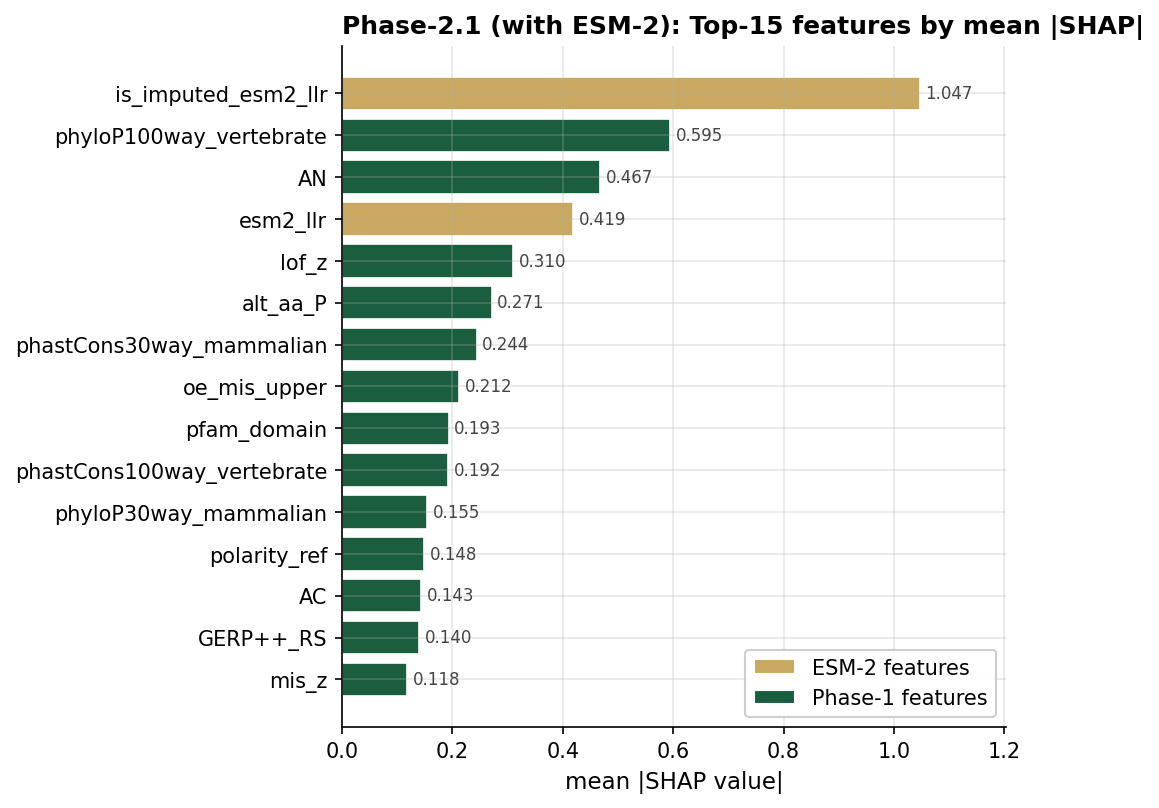
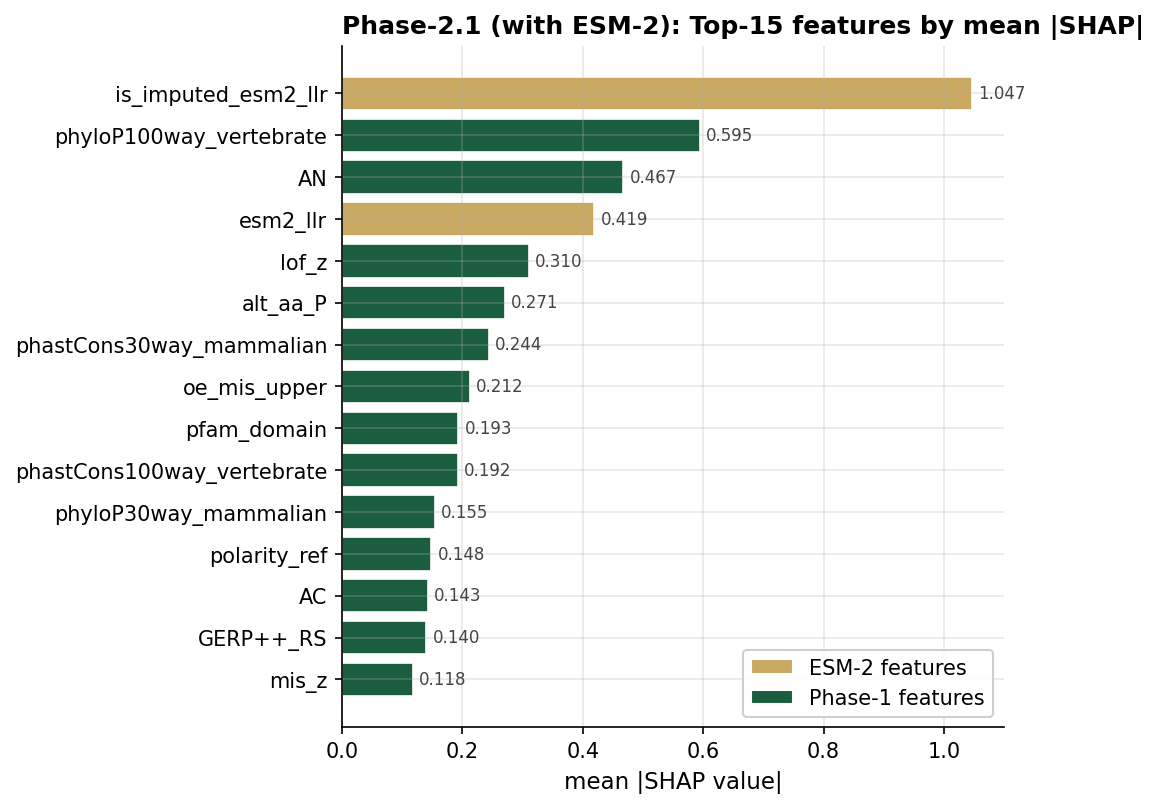
Defense: archive prep package + reusable SHAP regen script
Saves the seven-file defense improvement package as repository-internal
reference material:

- docs/defense_prep/{00..06}_*.md: original briefs covering README, fix
  list, slide LaTeX, Q&A bank, speaker notes, polish guide.
- docs/defense_prep/03_regenerate_shap_figure.py: untouched original.
- scripts/regenerate_shap_figure.py: adapted version that points at this
  repo's actual paths (results/metrics/shap_ranking_phase21.csv) and
  also accepts CSV input (load_shap_summary tolerates .csv suffix and
  strips num__ / cat__ prefixes for cleaner labels).

Re-running the adapted script reproduces shap_phase2_only.png from
committed inputs, so the figure is no longer one-shot manual work.

diff --git a/scripts/regenerate_shap_figure.py b/scripts/regenerate_shap_figure.py
@@ -1,0 +1,301 @@
+#!/usr/bin/env python3
+"""
+Regenerate the SHAP comparison figure for slide 45.
+
+Handles two cases:
+  --mode=full    : Phase-1 SHAP parquet exists, produces side-by-side comparison
+  --mode=single  : Phase-1 missing, produces clean single-panel Phase-2.1 figure
+
+Usage:
+    python 03_regenerate_shap_figure.py --mode=full
+    python 03_regenerate_shap_figure.py --mode=single
+
+Outputs to:
+    figures/shap_phase1_vs_phase2.png   (full mode)
+    figures/shap_phase2_only.png        (single mode)
+
+Author: prepared for Rayan AlShahrani's defense, Apr 2026
+"""
+
+import argparse
+import sys
+from pathlib import Path
+
+import matplotlib.pyplot as plt
+import numpy as np
+import pandas as pd
+
+# -----------------------------------------------------------------------------
+# Configuration
+# -----------------------------------------------------------------------------
+
+REPO_ROOT = Path(__file__).resolve().parent.parent
+# Phase-1 SHAP data is not preserved in this repo — only Phase-2.1 ranking CSV is
+SHAP_DIR = REPO_ROOT / "results" / "metrics"
+FIGURES_DIR = REPO_ROOT / "report" / "academic" / "figures"
+FIGURES_DIR.mkdir(parents=True, exist_ok=True)
+
+# Default file paths — point to actual data shipped in this repo
+PHASE1_PARQUET = SHAP_DIR / "shap_ranking_phase1.csv"  # not present; --mode=full will fail
+PHASE2_PARQUET = SHAP_DIR / "shap_ranking_phase21.csv"
+
+# KKU palette — match your slide theme
+KKU_GREEN = "#1B5E3F"
+KKU_GOLD = "#C9A961"
+NEUTRAL = "#444444"
+
+# Figure aesthetics
+plt.rcParams.update({
+    "font.family": "DejaVu Sans",
+    "font.size": 10,
+    "axes.spines.top": False,
+    "axes.spines.right": False,
+    "axes.grid": True,
+    "grid.alpha": 0.3,
+})
+
+
+# -----------------------------------------------------------------------------
+# Data loading
+# -----------------------------------------------------------------------------
+
+def load_shap_summary(data_path: Path, top_n: int = 15) -> pd.DataFrame:
+    """
+    Load a SHAP summary parquet or CSV and return the top-N features by mean |SHAP|.
+
+    Expected columns:
+        - 'feature': feature name
+        - 'mean_abs_shap': mean absolute SHAP value
+    """
+    if not data_path.exists():
+        raise FileNotFoundError(f"SHAP file not found: {data_path}")
+
+    if data_path.suffix == ".csv":
+        df = pd.read_csv(data_path)
+    else:
+        df = pd.read_parquet(data_path)
+
+    # Tolerate alternate column names
+    if "mean_abs_shap" not in df.columns:
+        for alt in ("mean_abs_shap_value", "abs_shap", "shap_mean_abs"):
+            if alt in df.columns:
+                df = df.rename(columns={alt: "mean_abs_shap"})
+                break
+
+    if "feature" not in df.columns:
+        for alt in ("feature_name", "name"):
+            if alt in df.columns:
+                df = df.rename(columns={alt: "feature"})
+                break
+
+    # Strip the num__ / cat__ prefixes for cleaner labels (Phase-2.1 has them)
+    df["feature"] = df["feature"].str.replace(r"^(num__|cat__)", "", regex=True)
+
+    # Sort and take top N
+    df = df.sort_values("mean_abs_shap", ascending=False).head(top_n)
+    return df.reset_index(drop=True)
+
+
+# -----------------------------------------------------------------------------
+# Plotting — single panel
+# -----------------------------------------------------------------------------
+
+def plot_single_panel(phase2_df: pd.DataFrame, output_path: Path) -> None:
+    """Single-panel horizontal bar chart of Phase-2.1 SHAP values."""
+
+    fig, ax = plt.subplots(figsize=(7, 5.5), dpi=150)
+
+    # Reverse order so highest-impact feature is at top
+    df = phase2_df.iloc[::-1].reset_index(drop=True)
+
+    # Highlight ESM-2 features in gold, others in green
+    colors = [
+        KKU_GOLD if "esm2" in feat.lower() else KKU_GREEN
+        for feat in df["feature"]
+    ]
+
+    bars = ax.barh(
+        df["feature"],
+        df["mean_abs_shap"],
+        color=colors,
+        edgecolor="white",
+        linewidth=0.8,
+    )
+
+    # Add value labels at end of each bar
+    for bar, val in zip(bars, df["mean_abs_shap"]):
+        ax.text(
+            bar.get_width() + 0.01,
+            bar.get_y() + bar.get_height() / 2,
+            f"{val:.3f}",
+            va="center",
+            fontsize=8,
+            color=NEUTRAL,
+        )
+
+    ax.set_xlabel("mean |SHAP value|", fontsize=11)
+    ax.set_title(
+        "Phase-2.1 (with ESM-2): Top-15 features by mean |SHAP|",
+        fontsize=12,
+        fontweight="bold",
+        loc="left",
+    )
+
+    # Legend explaining the color coding
+    from matplotlib.patches import Patch
+    legend_elements = [
+        Patch(facecolor=KKU_GOLD, edgecolor="white", label="ESM-2 features"),
+        Patch(facecolor=KKU_GREEN, edgecolor="white", label="Phase-1 features"),
+    ]
+    ax.legend(
+        handles=legend_elements,
+        loc="lower right",
+        frameon=True,
+        framealpha=0.95,
+    )
+
+    plt.tight_layout()
+    plt.savefig(output_path, bbox_inches="tight", dpi=150)
+    plt.close()
+    print(f"[OK] Wrote {output_path}")
+
+
+# -----------------------------------------------------------------------------
+# Plotting — two panel
+# -----------------------------------------------------------------------------
+
+def plot_two_panel(
+    phase1_df: pd.DataFrame,
+    phase2_df: pd.DataFrame,
+    output_path: Path,
+) -> None:
+    """Side-by-side comparison of Phase-1 vs Phase-2.1 SHAP."""
+
+    fig, axes = plt.subplots(1, 2, figsize=(13, 6), dpi=150, sharex=False)
+
+    # Determine a shared x-axis upper bound for visual comparability
+    xmax = max(
+        phase1_df["mean_abs_shap"].max(),
+        phase2_df["mean_abs_shap"].max(),
+    ) * 1.15
+
+    for ax, df, title, has_esm2 in [
+        (axes[0], phase1_df, "Phase-1 (no ESM-2)", False),
+        (axes[1], phase2_df, "Phase-2.1 (with ESM-2)", True),
+    ]:
+        df_plot = df.iloc[::-1].reset_index(drop=True)
+
+        if has_esm2:
+            colors = [
+                KKU_GOLD if "esm2" in feat.lower() else KKU_GREEN
+                for feat in df_plot["feature"]
+            ]
+        else:
+            colors = [KKU_GREEN] * len(df_plot)
+
+        ax.barh(
+            df_plot["feature"],
+            df_plot["mean_abs_shap"],
+            color=colors,
+            edgecolor="white",
+            linewidth=0.8,
+        )
+
+        ax.set_xlim(0, xmax)
+        ax.set_xlabel("mean |SHAP value|", fontsize=11)
+        ax.set_title(title, fontsize=12, fontweight="bold", loc="left")
+        ax.tick_params(axis="y", labelsize=9)
+
+    fig.suptitle(
+        "Top-15 features by mean |SHAP| — Phase-1 vs Phase-2.1",
+        fontsize=13,
+        fontweight="bold",
+        y=1.02,
+    )
+
+    # Legend on the right panel only
+    from matplotlib.patches import Patch
+    legend_elements = [
+        Patch(facecolor=KKU_GOLD, edgecolor="white", label="ESM-2 features"),
+        Patch(facecolor=KKU_GREEN, edgecolor="white", label="Phase-1 features"),
+    ]
+    axes[1].legend(handles=legend_elements, loc="lower right", frameon=True)
+
+    plt.tight_layout()
+    plt.savefig(output_path, bbox_inches="tight", dpi=150)
+    plt.close()
+    print(f"[OK] Wrote {output_path}")
+
+
+# -----------------------------------------------------------------------------
+# Main
+# -----------------------------------------------------------------------------
+
+def main() -> int:
+    parser = argparse.ArgumentParser(description=__doc__)
+    parser.add_argument(
+        "--mode",
+        choices=["full", "single"],
+        required=True,
+        help="full = side-by-side (requires Phase-1 parquet); single = Phase-2.1 only",
+    )
+    parser.add_argument(
+        "--phase1-path",
+        type=Path,
+        default=PHASE1_PARQUET,
+        help=f"Phase-1 SHAP file, csv or parquet (default: {PHASE1_PARQUET})",
+    )
+    parser.add_argument(
+        "--phase2-path",
+        type=Path,
+        default=PHASE2_PARQUET,
+        help=f"Phase-2.1 SHAP file, csv or parquet (default: {PHASE2_PARQUET})",
+    )
+    parser.add_argument(
+        "--top-n",
+        type=int,
+        default=15,
+        help="Number of top features to plot (default: 15)",
+    )
+    args = parser.parse_args()
+
+    # Always need Phase-2 data
+    try:
+        phase2_df = load_shap_summary(args.phase2_path, top_n=args.top_n)
+    except FileNotFoundError as e:
+        print(f"[ERROR] {e}", file=sys.stderr)
+        print(
+            "[HINT] Make sure your Phase-2.1 SHAP computation has been run.\n"
+            "       Expected file at: " + str(args.phase2_path),
+            file=sys.stderr,
+        )
+        return 1
+
+    if args.mode == "full":
+        try:
+            phase1_df = load_shap_summary(args.phase1_path, top_n=args.top_n)
+        except FileNotFoundError as e:
+            print(f"[ERROR] {e}", file=sys.stderr)
+            print(
+                "[HINT] Phase-1 SHAP parquet missing. Either:\n"
+                "  (a) Run: python -m src.eval.shap_phase1\n"
+                "      to regenerate Phase-1 SHAP, then re-run this script.\n"
+                "  (b) Use --mode=single to skip the Phase-1 panel.",
+                file=sys.stderr,
+            )
+            return 1
+
+        output_path = FIGURES_DIR / "shap_phase1_vs_phase2.png"
+        plot_two_panel(phase1_df, phase2_df, output_path)
+
+    else:  # single
+        output_path = FIGURES_DIR / "shap_phase2_only.png"
+        plot_single_panel(phase2_df, output_path)
+
+    print("[DONE] Update slide 45 in defense.tex to point at:")
+    print(f"       {output_path.relative_to(REPO_ROOT)}")
+    return 0
+
+
+if __name__ == "__main__":
+    sys.exit(main())
